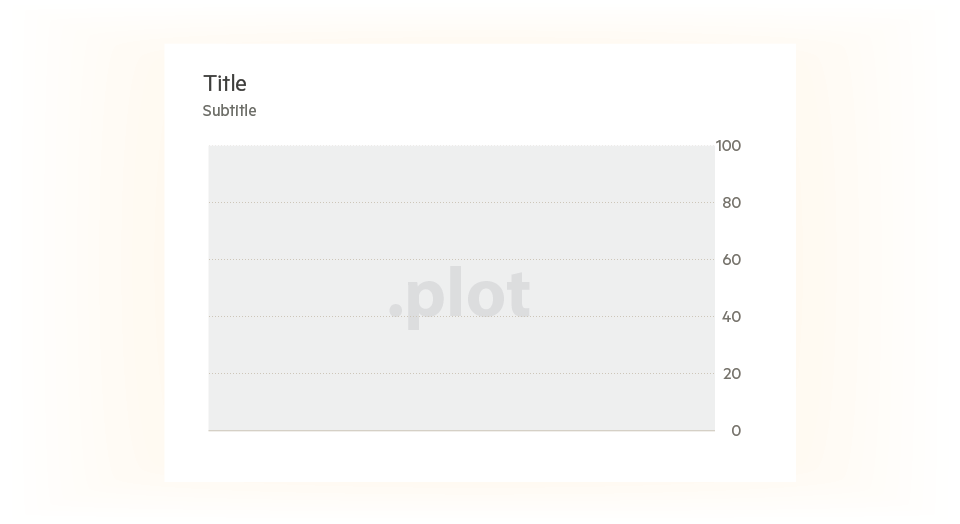
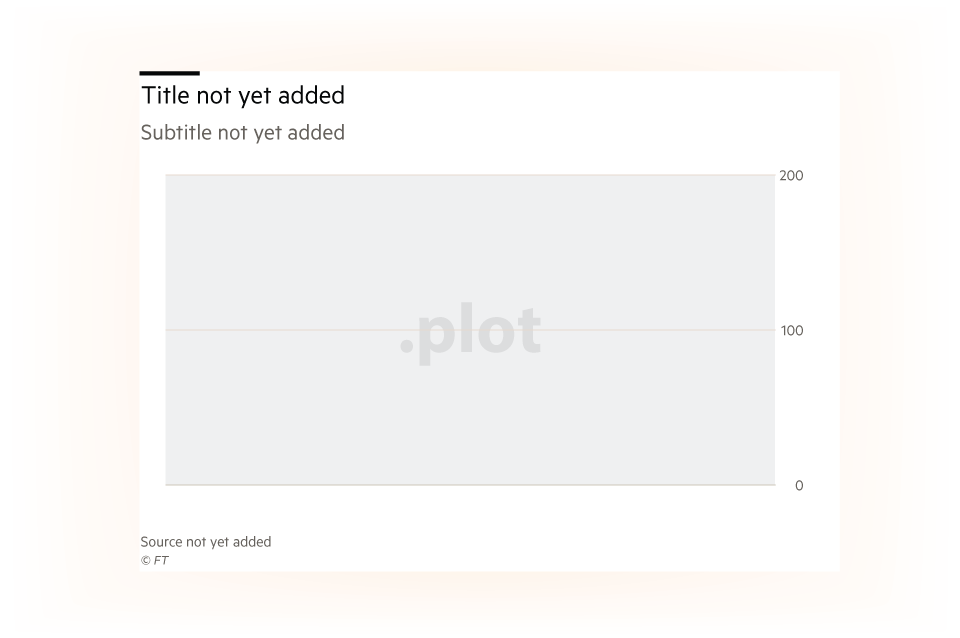
Add numberTicks example and API yLinear

diff --git a/README.md b/README.md
@@ -281,7 +281,18 @@ yAxis
 #### <a id='ylinearlabelWidth'>myAxis.labelWidth([Number])</a>
 Used to return the width of the text on the axis tick. Will vary depending on tick e.g. a label of '1,000,000' will be wider than a label of '10' and will return a higher value. See [yLinear Postioning](#ylinpos)
 
-myAxis<b>.numTicks([Number])</b> as they name suggest defines how many ticks are on the axis. 0 to 100 with 3 tick would give a zero line, a fifty line and a hundred line.If not enough ticks have been specifiesd d3 will automatically increase the number. [example](#ylinnumticks)
+#### <a id='ylinearNumticks'>myAxis.numTicks([Number])</a>
+As they name suggest defines how many ticks are on the axis. 0 to 200 with 3 tick would give a zero line, a 100 and 200 line.If not enough ticks have been specifiesd d3 will automatically increase the number.
+```
+yAxis
+    .numTicks(3)
+```
+![alt tag](https://github.com/ft-interactive/g-axis/blob/master/images/yLinear-numticks.png)
+```
+yAxis
+    .numTicks(5)
+```
+![alt tag](https://github.com/ft-interactive/g-axis/blob/master/images/yLinear-numticks5.png)
 
 myAxis<b>.range([Array])</b> defines the axis  range in the same way as you would when creating a normal d3.scaleLinear(). If no <b>.range()</b> is defined the default is [120,0])
 
@@ -297,65 +308,6 @@ yAxis
   .yAxishighlight(-100)
 ```
 ![alt tag](https://github.com/ft-interactive/g-axis/blob/master/images/yLinear-highlight2.png)
-
-## yLinear Examples
-### <a id='ylinleft'>Left hand axis</a>
-```
- myYAxis
-    .domain([0,200])
-    .range([currentFrame.dimension().height,0])
-    .tickSize(currentFrame.dimension().width)
-    .align('left')
-
-currentFrame.plot()
-    .call(myYAxis);
-```
-![alt tag](https://github.com/ft-interactive/g-axis/blob/master/images/yLinear-left.png)
-
-### <a id='ylinnumticks'>Number of ticks</a>
-Zero to 100 with 6 tick, making increments of every 20
-```
-myYAxis
-    .range([currentFrame.dimension().height,0])
-    .domain([0,200])
-    .tickSize(currentFrame.dimension().width)
-    .numTicks(6)
-
-currentFrame.plot()
-    .call(myYAxis);
-```
-![alt tag](https://github.com/ft-interactive/g-axis/blob/master/images/yLinear-numticks.png)
-
-### <a id='ylinhighlight'>yAxisHighlight</a>
--50 to 200 with 150 highlighted as this is the base line. Zero automatically highlights
-```
-yAxis
-    .domain([-50,200])
-    .range([currentFrame.dimension().height,0])
-    .align(align)
-    .tickSize(currentFrame.dimension().width)
-    .yAxisHighlight(-50);
-
-currentFrame.plot()
-    .call(myYAxis);
-```
-![alt tag](https://github.com/ft-interactive/g-axis/blob/master/images/yLinear-highlight.png)
-
-### <a id='ylininvert'>Inverted scale</a>
-200 down to zero. 200 line highlighted
-
-```
-yAxis
-    .domain([0,200])
-    .range([currentFrame.dimension().height,0])
-    .tickSize(currentFrame.dimension().width)
-    .yAxisHighlight(200)
-    .invert(true);
-
-currentFrame.plot()
-    .call(yAxis);
-```
-![alt tag](https://github.com/ft-interactive/g-axis/blob/master/images/yLinear-invert.png)
 
 
 
